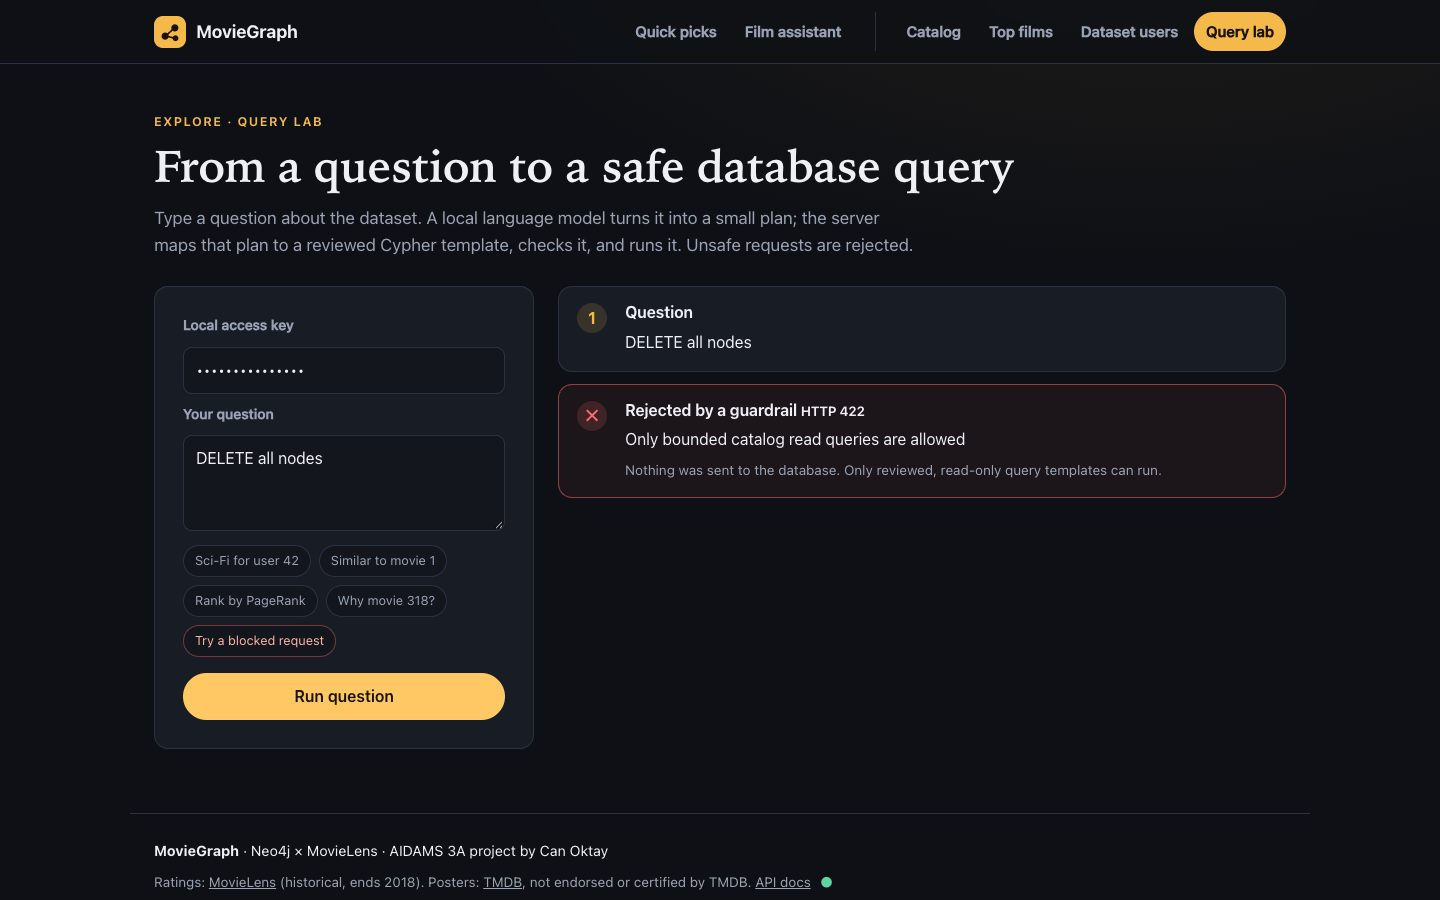
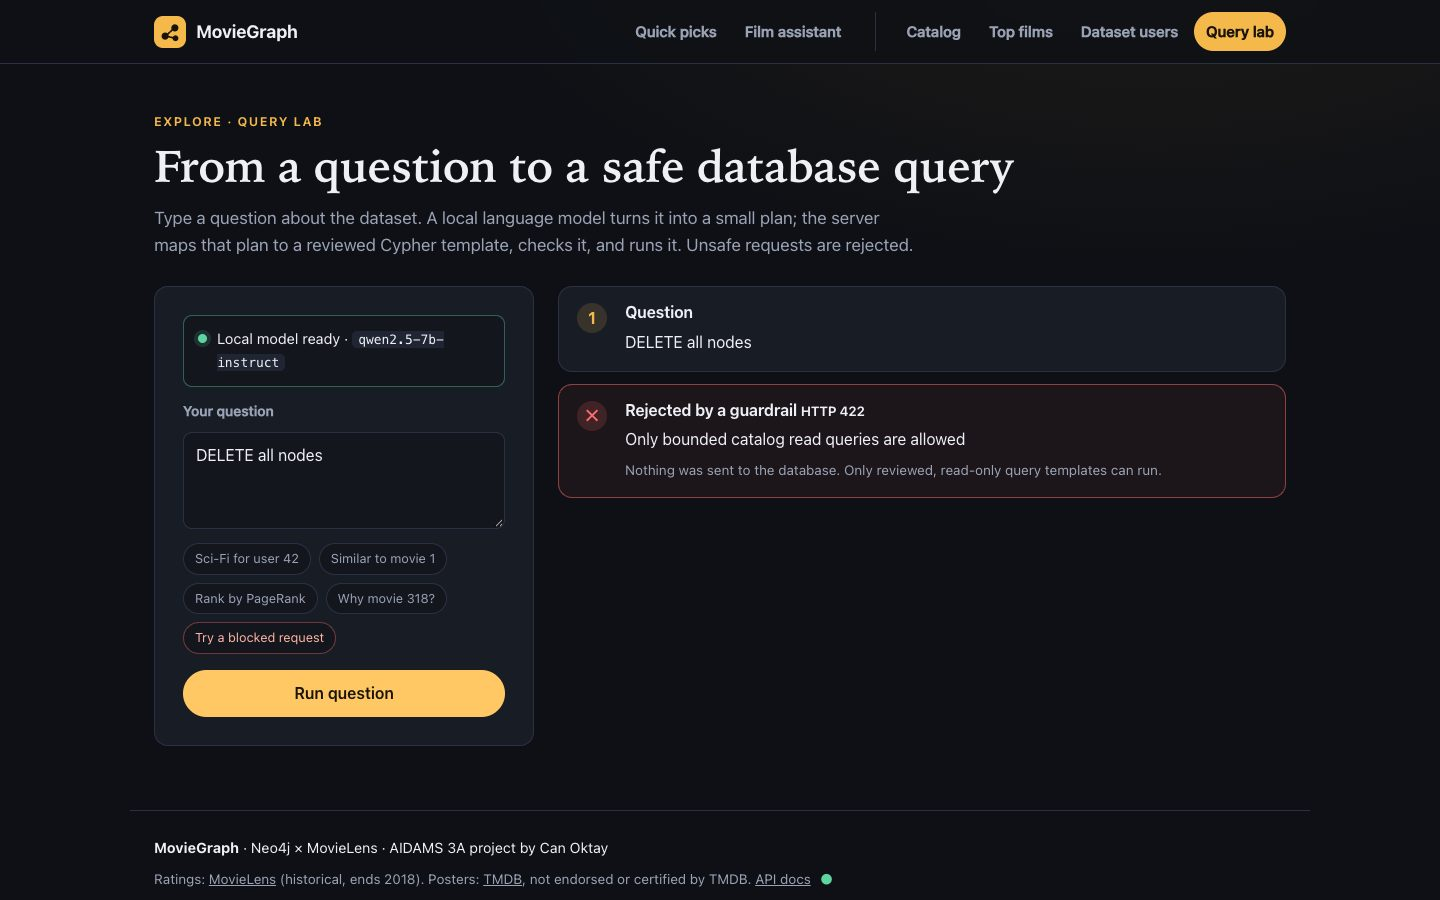
docs: describe keyless local use and refresh results

diff --git a/docs/film-assistant.md b/docs/film-assistant.md
@@ -4,14 +4,14 @@ The navigation has two groups. **Get recommendations** contains **Quick picks** 
 
 ## Visitor journey
 
-1. Start LM Studio with `qwen2.5-7b-instruct` and the local server on port 1234. Open Film assistant and enter the local application's `APP_API_KEY` from `.env`. This is not a paid-provider API key.
+1. Start LM Studio with `qwen2.5-7b-instruct` and the local server on port 1234. Open Film assistant: a status line shows whether the local model answers (`GET /api/model/status`). No key is needed on a local install.
 2. Start a conversation. The server shows five real catalog films with a fixed prompt. Choose a card or skip. The server verifies that the chosen ID belongs to that round. Card clicks never call the model.
 3. Repeat for ten rounds. Back revisits the previous round. A completed choice is committed in browser state only after a successful response; retry preserves a pending choice when the model is unavailable.
 4. The graph algorithm returns recommendations, excluding selected favourites. Open **Why this film?** to see the contributing selected film, shared positive raters and similarity.
 5. Send `Bana sadece komedi öner` or `Only comedies, please`. The model chooses the candidate genre filter, and the graph query runs again. `All genres, please` removes the filter. `Recommend now` can request matches before ten rounds when at least one favourite has been selected.
 6. Name one selected film to request recommendations similar to that favourite. The tool uses that one seed instead of combining all favourites. Unresolved or unsupported requests ask for clarification rather than inventing a result.
 
-Selected preferences, transcript and local key stay in browser memory. Reload clears them; navigation between screens preserves them. Starting over clears the conversation but leaves the tab's key available. Neither flow creates MovieLens users or ratings. Unselected alternatives are not negative labels.
+Selected preferences and the transcript stay in browser memory. Reload clears them; navigation between screens preserves them. Starting over clears the conversation. Neither flow creates MovieLens users or ratings. Unselected alternatives are not negative labels.
 
 ## Two layers and a fixed quiz controller
 
@@ -41,7 +41,7 @@ No generic Cypher executor is exposed. Canonical genres, tool names, identities,
 
 ## API
 
-`POST /api/assistant/turn`, authenticated with `X-API-Key`:
+`POST /api/assistant/turn` (with `X-API-Key` only when the server runs with `REQUIRE_API_KEY=true`):
 
 ```json
 {
@@ -59,7 +59,7 @@ No generic Cypher executor is exposed. Canonical genres, tool names, identities,
 
 Responses contain `stage` (`choosing`, `recommendations`, `clarify`), short `message`, `options`, `items`, current/completed round counts, selected IDs/titles, validated `plan`, active analytics run and trace ID. Each recommendation includes actual graph reasons. An empty result remains empty and is explained in the interface; it does not silently switch to invented or unrelated films.
 
-The model endpoint is protected by the existing local key and a 24-turn/minute application budget, with a dedicated Nginx budget and a 70-second proxy timeout for the two bounded provider attempts. The query lab retains its separate proxy budget. The application minute history is shared per client address; multiple local tabs can consume the same budget. A 429 asks the visitor to wait; retries preserve choices. Bad key is 401, invalid state/intent 422, invalid model format 502, offline model 503, and model timeout 504. The models and their server must remain locally reachable from Docker.
+The model endpoint is protected by a 24-turn/minute application budget (plus the optional key described above), with a dedicated Nginx budget and a 70-second proxy timeout for the two bounded provider attempts. The query lab retains its separate proxy budget. The application minute history is shared per client address; multiple local tabs can consume the same budget. A 429 asks the visitor to wait; retries preserve choices. A missing or wrong key on a key-protected server is 401 (the interface then reveals the key field), invalid state/intent 422, invalid model format 502, offline model 503, and model timeout 504. The models and their server must remain locally reachable from Docker.
 
 ## Verification
 

diff --git a/README.md b/README.md
@@ -145,7 +145,7 @@ make demo           # live HTTP smoke checks
 | Swagger / OpenAPI | http://localhost:18080/docs |
 | Neo4j Browser | http://localhost:17474 (Bolt `17687`, credentials in your `.env`) |
 
-**Optional local model** (Film assistant and Query lab): load `qwen2.5-7b-instruct` in [LM Studio](https://lmstudio.ai) and start its server on port `1234`. In the app, paste `APP_API_KEY` from your `.env`; it stays in the browser tab only. Everything else works without a model.
+**Optional local model** (Film assistant and Query lab): load `qwen2.5-7b-instruct` in [LM Studio](https://lmstudio.ai) and start its server on port `1234`. No key is needed: the Film assistant and Query lab show a live status (“Local model ready” or how to start it). Everything else works without a model.
 
 A Turkish walkthrough is available in [docs/START_HERE_TR.md](docs/START_HERE_TR.md).
 
@@ -293,7 +293,7 @@ Interactive documentation: **http://localhost:18080/docs**
 | POST | `/api/ask` 🔑 | Natural-language query lab |
 | POST | `/api/assistant/turn` 🔑 | Film assistant turn |
 
-🔑 requires the `X-API-Key` header (`APP_API_KEY` from `.env`).
+🔑 model endpoints: always rate-limited by Nginx and the API; they additionally require the `X-API-Key` header when the server runs with `REQUIRE_API_KEY=true` (off by default because every port binds to `127.0.0.1`). `GET /api/model/status` tells the interface whether LM Studio answers.
 
 ```bash
 curl 'http://localhost:18080/api/movies/1/similar?limit=5'
@@ -301,7 +301,7 @@ curl 'http://localhost:18080/api/users/42/recommendations?genre=Sci-Fi&limit=10'
 curl -X POST 'http://localhost:18080/api/taste/recommendations' \
   -H 'Content-Type: application/json' -d '{"movie_ids":[1,260,296],"limit":8}'
 curl -X POST 'http://localhost:18080/api/ask' -H 'Content-Type: application/json' \
-  -H "X-API-Key: $APP_API_KEY" -d '{"question":"Recommend 5 Sci-Fi movies for user 42"}'
+  -d '{"question":"Recommend 5 Sci-Fi movies for user 42"}'
 ```
 
 ---
@@ -310,9 +310,9 @@ curl -X POST 'http://localhost:18080/api/ask' -H 'Content-Type: application/json
 
 | Check | Result |
 |---|---|
-| Python tests (unit, API, real Neo4j/Cypher/GDS integration) | **181 passed** |
-| Frontend behavioural tests (Node test runner) | **19 passed** |
-| Statement + branch coverage (enforced ≥ 60 %) | **83.2 %** |
+| Python tests (unit, API, real Neo4j/Cypher/GDS integration) | **190 passed** |
+| Frontend behavioural tests (Node test runner) | **21 passed** |
+| Statement + branch coverage (enforced ≥ 60 %) | **83.8 %** |
 | Pylint with the course `.pylintrc` (enforced ≥ 9.5) | **9.90 / 10** |
 | Query-lab evaluation: 20 live model cases, 10 unsafe, 5 unsupported, 5 injected faults | **40 / 40** |
 | Assistant evaluation: real model + real Neo4j, 10 rounds, Turkish genre filter, tool switch, guards | **17 / 17** |
@@ -405,7 +405,7 @@ Import validation rejects invalid scores, missing foreign keys and conflicting i
 - MovieLens is a historical, selection-biased research sample; “top films” are not live trends.
 - Similarity uses a bounded top-K approximation; many catalog films have too few ratings to be connected.
 - Visitor picks live only in the browser tab and are never written to the graph.
-- Authentication is a local development key; this deployment is not meant to be exposed publicly.
+- The stack is built for one computer: ports bind to `127.0.0.1`. Before exposing it, set `REQUIRE_API_KEY=true` (the interface then asks for the key) and put real authentication in front.
 - The container image is published to GitHub Container Registry as **private** by the owner’s choice.
 
 ---

diff --git a/docs/adr/003-language-safety.md b/docs/adr/003-language-safety.md
@@ -4,8 +4,8 @@ Status: accepted.
 
 The local Qwen model outputs a Pydantic QueryPlan, not executable code. Only six intents exist; unsupported questions fail closed. The compiler resolves real identities and canonical genres, selects an exact reviewed Cypher template and binds parameters. Unknown fields, large limits and guessed identities are rejected. At most one output-format repair is attempted. The trace exposes the compiled Cypher and actual rows.
 
-EXPLAIN catches syntax/plan failures but is not a security sandbox. READ routing is not a database privilege boundary. In Neo4j Community this application relies on its fixed query language, network isolation and authenticated costly endpoint; it does not pretend to have Enterprise fine-grained read roles. The importer and analytical job path have trusted database management access; no HTTP route accepts free Cypher, CALL/APOC, file import or mutations.
+EXPLAIN catches syntax/plan failures but is not a security sandbox. READ routing is not a database privilege boundary. In Neo4j Community this application relies on its fixed query language, network isolation (every port binds to 127.0.0.1) and per-client budgets on the costly model endpoints, with an optional key (`REQUIRE_API_KEY=true`) for any exposed deployment; it does not pretend to have Enterprise fine-grained read roles. The importer and analytical job path have trusted database management access; no HTTP route accepts free Cypher, CALL/APOC, file import or mutations.
 
-Observed ratings are distinct from derived similarity and generated language. Recommendation explanations are deterministically rendered from actual paths; there is no second unconstrained model that can invent a plot, director or preference. API keys stay in .env or in a user's current browser tab, never in responses or checked-in screenshots.
+Observed ratings are distinct from derived similarity and generated language. Recommendation explanations are deterministically rendered from actual paths; there is no second unconstrained model that can invent a plot, director or preference. When key protection is enabled, the key stays in .env or in a user's current browser tab, never in responses or checked-in screenshots.
 
 This is constrained NL→plan→Cypher. It satisfies the engineering intent of validated NL-to-Cypher; if the instructor requires raw model-written Cypher specifically, that interpretation needs clarification. A genuine LangGraph multi-step agent is not claimed for this Level 2 project.

diff --git a/docs/results.md b/docs/results.md
@@ -4,13 +4,14 @@ Measured locally on 18 October 2026 after the interface redesign. These are obse
 
 ## Quality gates
 
-- **181 Python tests and 19 frontend behavioural tests passed**, including real Neo4j, Cypher, projection and GDS algorithm jobs.
-- **83.15% combined Python statement/branch coverage**, minimum enforced: 60%.
+- **190 Python tests and 21 frontend behavioural tests passed**, including real Neo4j, Cypher, projection and GDS algorithm jobs.
+- **83.76% combined Python statement/branch coverage**, minimum enforced: 60%.
 - **Pylint 9.90/10**, teacher configuration, minimum enforced: 9.5. Black reports no changes.
 - **40/40 query-lab reliability cases passed**. The 20 supported questions check intent, exact entity/filter/budget parameters and returned genre membership. Other cases distinguish scope/guardrail rejection from controlled malformed-provider fault injection.
 - **17/17 film-assistant checks passed** with the real local model and real Neo4j (ten deterministic quiz turns, Turkish comedy filter, filter retention and removal, single-favourite tool switch, two scope guards, unchanged source counts) in 22 s.
 - **14/14 live HTTP smoke checks passed** against the rebuilt container stack.
 - First-load transfer through Nginx: about 316 KB (HTML 7 KB, app.js 11.5 KB, poster metadata 298 KB gzip), down from about 3.1 MB. Posters display in Chrome and WebKit (Safari) on every screen.
+- The Film assistant and Query lab work without any key on a local install, in Chrome and WebKit. With the model server stopped, the status line explains how to start it, card rounds still work, and a typed request returns a clear 503 with retry.
 - Every notebook cell executed; real model HTTP 200, exact Sci-Fi filtering and unsafe-operation HTTP 422 are assertions.
 - The interface was driven end to end in Chrome at 1440 px and 390 px (all seven screens, dialogs, the assistant and the query lab). No screen has horizontal overflow at 375 px. Screenshots are in `docs/screenshots/`; no key appears in them.
 

diff --git a/docs/START_HERE_TR.md b/docs/START_HERE_TR.md
@@ -38,12 +38,14 @@ Ardından [siteyi aç](http://localhost:18080). [API belgeleri (Swagger)](http:/
 ## 3. Film assistant'ı kullanmak
 
 1. LM Studio'da **qwen2.5-7b-instruct** modelini yükle ve yerel sunucuyu **1234** portunda başlat.
-2. `.env` dosyasındaki **APP_API_KEY** değerini **Local access key** alanına yapıştır. Bu ücretli bir servis anahtarı değildir ve Neo4j şifresiyle aynı şey değildir. Anahtar yalnızca o sekmede kalır.
+2. **Film assistant** sayfasını aç. Anahtar girmen gerekmez. Sayfadaki gösterge modelin durumunu söyler: yeşil **Local model ready** ise hazırsın; değilse LM Studio'da neyi açman gerektiğini yazar, **check again** ile yeniden kontrol edebilirsin.
 3. **Start the conversation** ile başla. Film kartına tıklayarak seç ya da turu atla. Kart tıklamaları sunucu tarafından yönetilir, bu yüzden hızlıdır. Modeli yalnızca yazdığın mesajlar kullanır.
 4. On turdan sonra ya da **Recommend now** ile öneriler gelir. Bir afişe tıklarsan **Why?** penceresi açılır.
 5. “Bana sadece komedi öner”, “All genres” ya da seçtiğin bir filmin adını yazarak sonuçları değiştir.
 
-Model kapalıysa açık bir hata mesajı görürsün; **Try that step again** seçimlerini kaybetmeden yeniden dener. İstek sınırına takılırsan bir dakika bekle. Anahtarı ekran görüntüsüne ya da Git'e ekleme.
+Model kapalıysa açık bir hata mesajı görürsün; **Try that step again** seçimlerini kaybetmeden yeniden dener. İstek sınırına takılırsan bir dakika bekle.
+
+Siteyi başka bilgisayarlara açacaksan `.env` içinde `REQUIRE_API_KEY=true` yap. O zaman arayüz **APP_API_KEY** değerini ister. Bu değeri ekran görüntüsüne ya da Git'e ekleme.
 
 ## 4. Sunum ve kalite kontrolleri
 

diff --git a/docs/demo-runbook.md b/docs/demo-runbook.md
@@ -14,7 +14,7 @@
 - Open Home and explain the two ways to get recommendations. In **Film assistant**, complete the five-card rounds (card clicks are deterministic and fast), open a “Why?” reason, then ask `Bana sadece komedi öner` and show the genre-filtered graph results. Name one selected favourite to demonstrate the single-film tool.
 - Show that **Quick picks** works without the model, including genre chips and “Why?”. Then open **Dataset users** for rater 42 (both methods and the path evidence), **Catalog** for title search and “Fans also liked”, and **Top films** for the rating/PageRank toggle.
 - In Swagger show similar, personalized, discover and historical trending/PageRank routes.
-- In **Query lab**, enter the **local** APP_API_KEY only in the browser field, then ask `Recommend 5 Sci-Fi movies for user 42`.
+- In **Query lab**, point at the green “Local model ready” status, then ask `Recommend 5 Sci-Fi movies for user 42`. No key is needed locally; explain that `REQUIRE_API_KEY=true` turns key protection on for an exposed deployment.
 - Show the actual compiled Cypher, bound parameters and graph results.
 - Click “Try a blocked request” (`DELETE all nodes`): show the red 422 guardrail stage and verify the source counts remain unchanged.
 - Explain Movie→User projection direction, support shrinkage and canonical undirected weights.
